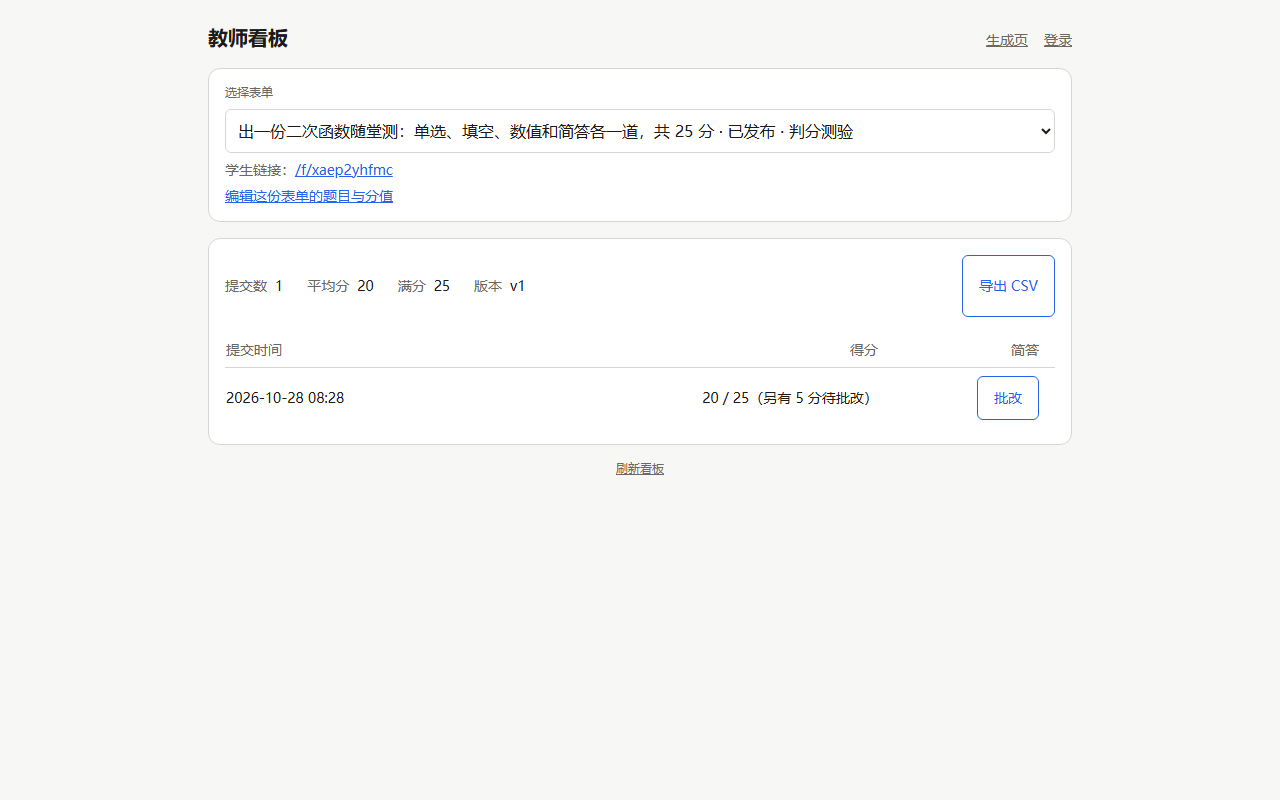
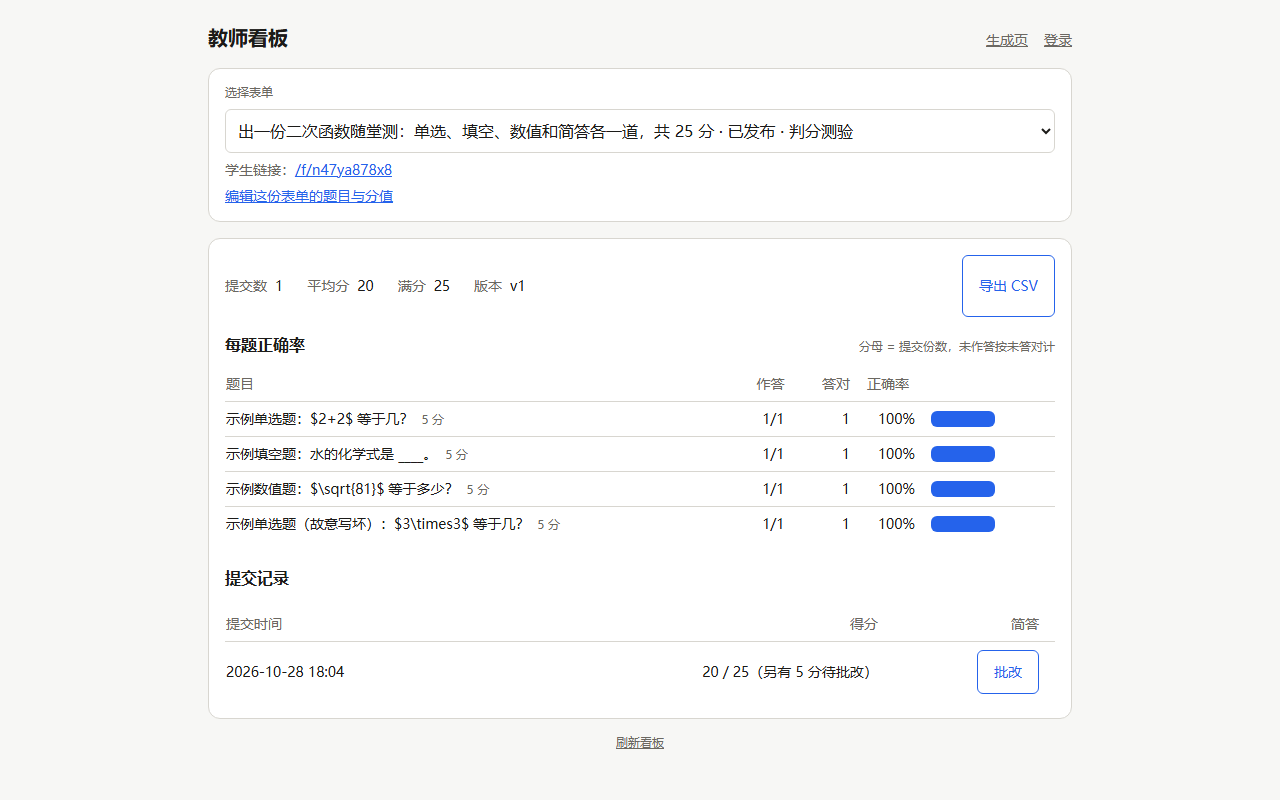
test(scripts): VC7 覆盖每题正确率，浏览器闭环断真实渲染 [P09]
- verify.mjs 新增 VC7：三份提交（全对/只对一半/未作答）逐题断言，零提交时 rate 为 null
- 浏览器闭环第 3 步断零提交显示 —，第 6 步断全部答对时每行 100%
- AGENTS §6 的 VC 清单 6 → 7；12 张截图按本轮重跑落盘

diff --git a/AGENTS.md b/AGENTS.md
@@ -83,7 +83,7 @@ node scripts/secret-scan.mjs
 node scripts/secret-scan.mjs --history
 ```
 
-**`pnpm verify` 不是上面这几条的同义词。** 它跑 `scripts/verify.mjs` 的 HTTP 级验证用例，当前是 **VC1–VC6**（发布快照、判分与版本冲突、学生端零泄漏、生成→发布→提交→看板、人工批改、受限修改与撤销）；每落地一条闭环能力就配一条 VC，数量随能力增长，不写死为三条。它证明的是 HTTP 语义闭环，不是浏览器里的真实操作——后者归 `scripts/browser-closed-loop.mjs`。别把 `check` 当成「一条命令跑通生成→渲染→提交」的验收。
+**`pnpm verify` 不是上面这几条的同义词。** 它跑 `scripts/verify.mjs` 的 HTTP 级验证用例，当前是 **VC1–VC7**（发布快照、判分与版本冲突、学生端零泄漏、生成→发布→提交→看板、人工批改、受限修改与撤销、每题正确率）；每落地一条闭环能力就配一条 VC，数量随能力增长，不写死为三条。它证明的是 HTTP 语义闭环，不是浏览器里的真实操作——后者归 `scripts/browser-closed-loop.mjs`。别把 `check` 当成「一条命令跑通生成→渲染→提交」的验收。
 
 涉及外部调用的功能，必须同时提供 `LLM_MODE=replay` 或 `mock` 路径，并在该路径下验证一遍。
 
